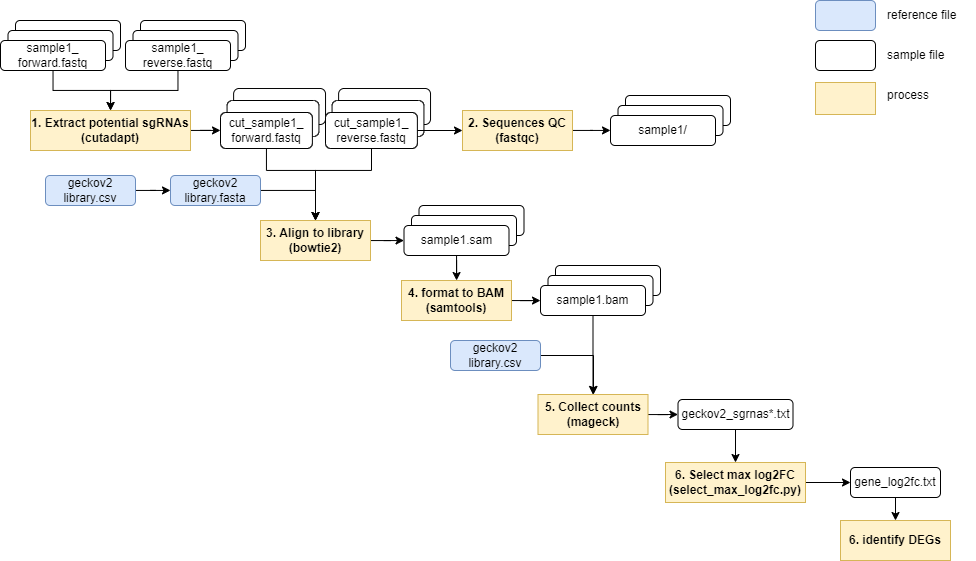
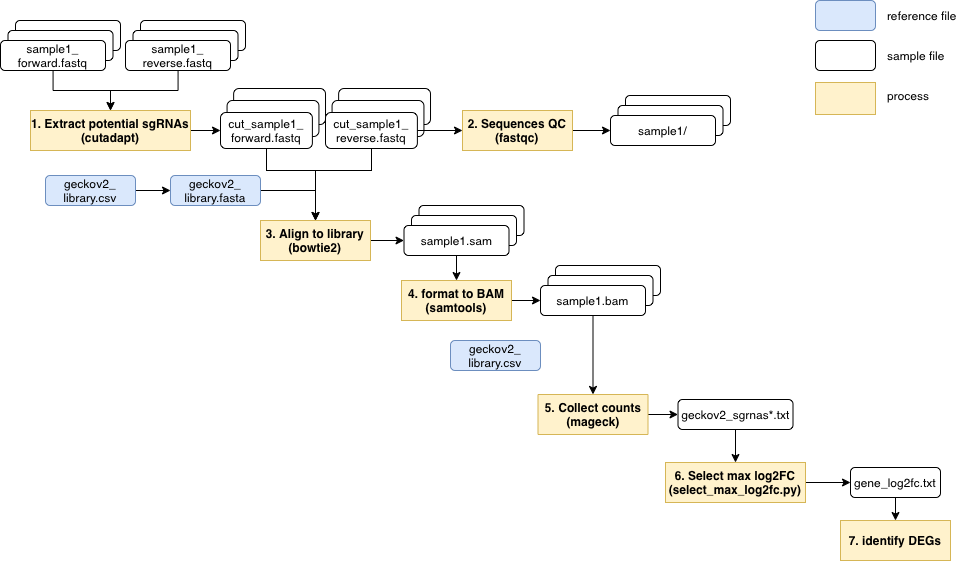
one gene one expression done

diff --git a/README.md b/README.md
@@ -22,6 +22,8 @@
 <a name="environment"></a>
 ## Environment setup
 ```
+# buildup
+conda env create -f environment.yml
 # initiate
 source activate crisprenv
 # finish
@@ -77,21 +79,42 @@ conda deactivate
 	mageck count -l geckov2_library.csv -n sgrna_counts/geckov2_sgrnas --sample-label sample1_7day,sample1_21day --fastq sample1_7day.bam sample1_21day.bam
 	```
 	> Log file is sgrna_counts/geckov2_sgrnas.log.
+6. Select max |log2 Fold change| as gene expression
+	Please open select_max_log2FC.py and modify input & output, 
+	```
+	counts_file = "sgrna_counts/geckov2_sgrnas.count_normalized.txt"
+	rivals = "sample1_7day,sample1_21day" #when lots of samples please command "sample1_7day,sample1_21day;sample2_7day,sample2_21day"
+	output_file = "gene-based_log2FC_sample1.txt"
+	```
+	After execution, it may show the below warning message.
+	```
+	A value is trying to be set on a copy of a slice from a DataFrame.
+	Try using .loc[row_indexer,col_indexer] = value instead
 
-6. Identify DEGs
+	See the caveats in the documentation: https://pandas.pydata.org/pandas-docs/stable/user_guide/indexing.html#returning-a-view-versus-a-copy
+  	df_rival[log2fcName] = df_rival.apply(lambda x: log2fc(x[early],x[late]), axis=1)
+	```
+
+7. Identify DEGs
 
 <a name="qc"></a>
 ## Quality control
 ### Sequence-level
-1. sequencing reads > 15,000,000
-2. similar GC content distribution
-3. the lowest median of base quality > Q25
+1. raw sequencing reads > 15,000,000[^2]
+2. similar GC content distribution[^3]
+3. the lowest median of base quality > Q25[^3]
 ### Count-level
-4. mean of sgRNAs counts at early time point > 300
-5. % mapped sgRNAs ratio > 65%
-6. 0 sgRNAs at early time point < 1%
-7. expression changes of non-targeting control genes are steady (around 0)   
+4. mean of sgRNAs counts at early time point > 300[^3]
+5. % mapped sgRNAs ratio > 65%[^3]
+6. 0 sgRNAs at early time point < 1%[^3]
+7. expression changes of non-targeting control genes are steady (around 0)[^4]   
 
 ## References
 
 [^1]: Nechiporuk T, Kurtz SE, Nikolova O, Liu T, Jones CL, D'Alessandro A, Culp-Hill R, d'Almeida A, Joshi SK, Rosenberg M, Tognon CE, Danilov AV, Druker BJ, Chang BH, McWeeney SK, Tyner JW. The TP53 Apoptotic Network Is a Primary Mediator of Resistance to BCL2 Inhibition in AML Cells. Cancer Discov. 2019 Jul;9(7):910-925. 
+
+[^2]: Meyers RM, Bryan JG, McFarland JM, Weir BA, Sizemore AE, Xu H, Dharia NV, Montgomery PG, Cowley GS, Pantel S, Goodale A, Lee Y, Ali LD, Jiang G, Lubonja R, Harrington WF, Strickland M, Wu T, Hawes DC, Zhivich VA, Wyatt MR, Kalani Z, Chang JJ, Okamoto M, Stegmaier K, Golub TR, Boehm JS, Vazquez F, Root DE, Hahn WC, Tsherniak A. Computational correction of copy number effect improves specificity of CRISPR-Cas9 essentiality screens in cancer cells. Nat Genet. 2017 Dec;49(12):1779-1784.
+
+[^3]: Li W, Köster J, Xu H, Chen CH, Xiao T, Liu JS, Brown M, Liu XS. Quality control, modeling, and visualization of CRISPR screens with MAGeCK-VISPR. Genome Biol. 2015 Dec 16;16:281.
+
+[^4]: Caeser R, Di Re M, Krupka JA, Gao J, Lara-Chica M, Dias JML, Cooke SL, Fenner R, Usheva Z, Runge HFP, Beer PA, Eldaly H, Pak HK, Park CS, Vassiliou GS, Huntly BJP, Mupo A, Bashford-Rogers RJM, Hodson DJ. Genetic modification of primary human B cells to model high-grade lymphoma. Nat Commun. 2019 Oct 4;10(1):4543.
